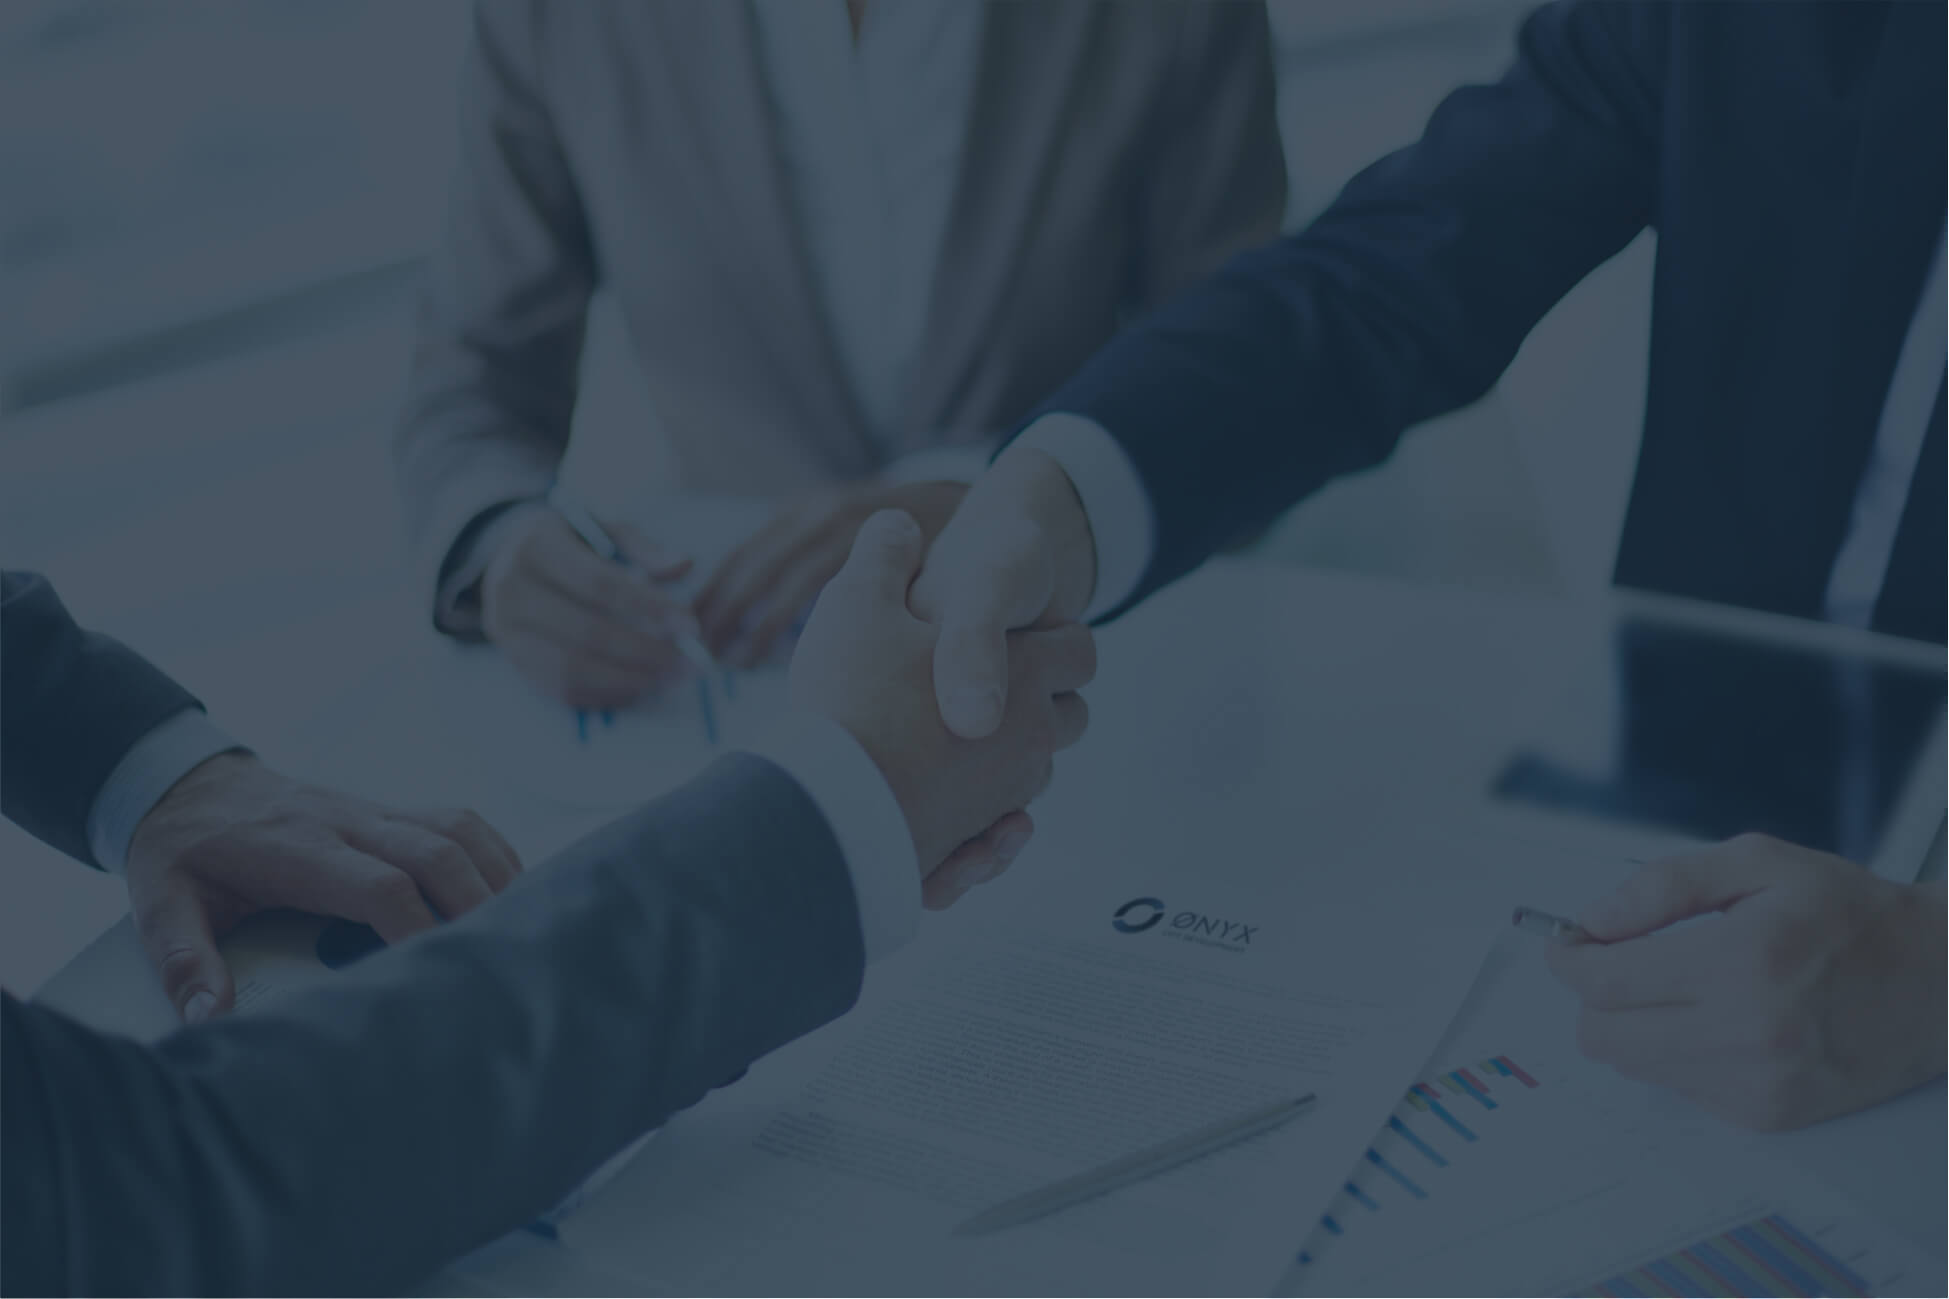
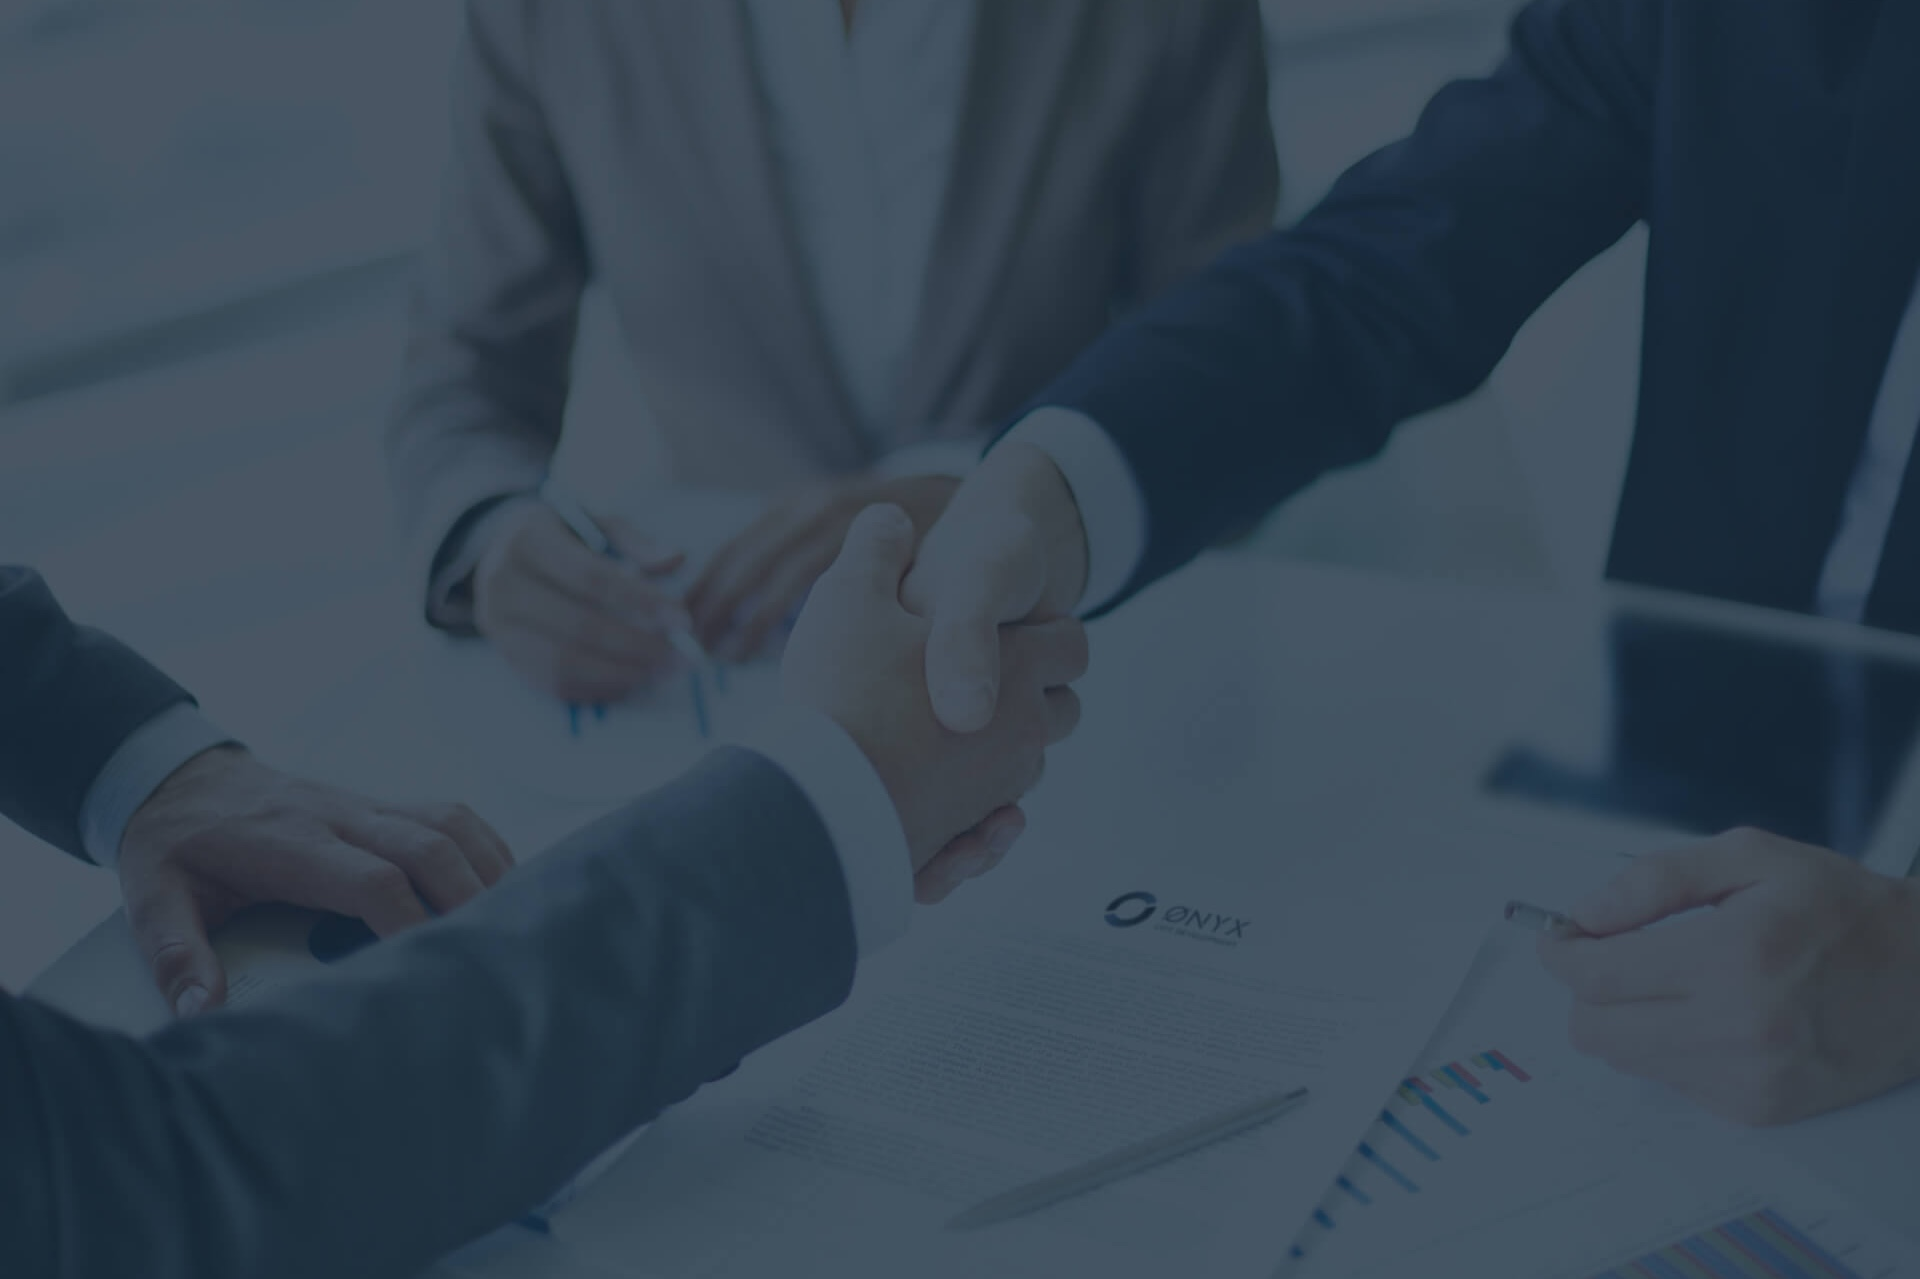
Update image

diff --git a/components/cooperation.tsx b/components/cooperation.tsx
@@ -8,8 +8,8 @@ export default function Cooperation({ setOpen }: { setOpen: (isOpen: boolean) =>
       <Image
         src="/images/handshake.jpg"
         alt="River Garden"
-        width={1949}
-        height={1299}
+        width={1920}
+        height={1279}
         className="absolute inset-0 -z-10 h-full w-full object-cover"
       />
       <Container className="py-14 md:py-44 lg:py-32">
